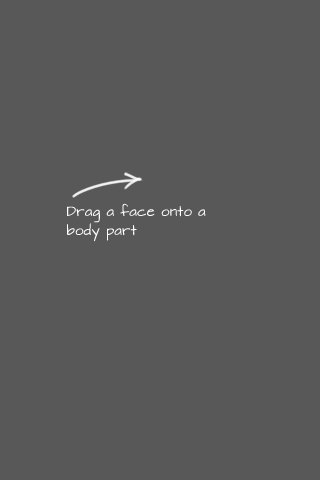
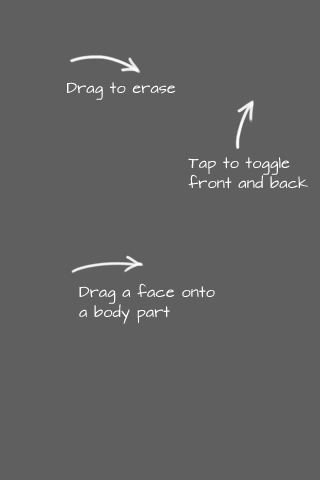
Made drawing changes and entry creation for painlevel, if found, same level and if it belongs to the same day or a different day. Also checking if drawing is
New CoachMarks, changed resizing for the aboutVC components

diff --git a/PainMe/PainMe/Classes/Model/PainLocation.m b/PainMe/PainMe/Classes/Model/PainLocation.m
@@ -19,11 +19,11 @@
 @dynamic painEntries;
 @dynamic orientation;
 
-+(void)enterPainEntryForLocation:(NSDictionary *)locdict levelPain:(int)painLvl notes:(NSString *)notes{
++(BOOL)enterPainEntryForLocation:(NSDictionary *)locdict levelPain:(int)painLvl notes:(NSString *)notes{
 
 
     PainLocation *locFound  = nil;
-    
+    BOOL toRet = NO;
     InvoDataManager *dtaMgr = [InvoDataManager sharedDataManager];
     
     NSManagedObjectContext *moc = [dtaMgr objContext];
@@ -41,7 +41,7 @@
     if (result && [result count]>0) {
 
         locFound = (PainLocation *)[result objectAtIndex:0];
-//        NSLog(@"PainLocation found is %@", locFound.name);
+        NSLog(@"PainLocation found is %@", locFound.name);
     }
     
     NSSet *entriesForLocation = locFound.painEntries;
@@ -50,18 +50,36 @@
     
     if(sortedEntries.count >0){
         int levelOfFoundEntry = [[[sortedEntries objectAtIndex:0] valueForKey:@"painLevel"] integerValue];
-        
+        NSDate *timeStamp = [[sortedEntries objectAtIndex:0] valueForKey:@"timestamp"] ;
+        NSDate *now = [[NSDate alloc] init];
         if(levelOfFoundEntry != painLvl){
-            NSDate *now = [[NSDate alloc] init];
-            
+            toRet = YES;
             [PainEntry painEntryWithTime:now painLevel:painLvl extraNotes:[notes copy] location:locFound];
+        }
+        else{
+            
+            NSLog(@"gotta handle this Else of founfEntry and painLevel");
+            NSCalendar *cal = [NSCalendar currentCalendar];
+            unsigned int unitFlags = NSDayCalendarUnit| NSMonthCalendarUnit ;
+            NSDateComponents *foundComps = [cal components:unitFlags fromDate:timeStamp];
+            NSDateComponents *currComps = [cal components:unitFlags fromDate:now];
+            
+            if ([foundComps month] != [currComps month] || [foundComps day] != [currComps day] ) {
+                toRet = YES;
+                [PainEntry painEntryWithTime:now painLevel:painLvl extraNotes:[notes copy] location:locFound];
+            }
+            
+//            NSLog(@"foundComps %@ currComps:%@",foundComps, currComps); 
+//            NSLog(@"time stamp is %@", timeStamp);
+//            NSLog(@"time now is %@",now);
         }
     }
     else{
         NSDate *now = [[NSDate alloc] init];
-        
+        toRet = YES;
         [PainEntry painEntryWithTime:now painLevel:painLvl extraNotes:[notes copy] location:locFound];
     }
+    return toRet;
 }
 
 

diff --git a/PainMe/PainMe/Classes/Controllers/InvoBodySelectionViewController.m b/PainMe/PainMe/Classes/Controllers/InvoBodySelectionViewController.m
@@ -473,27 +473,34 @@
             }
             else bezierShape = [value copy];
         }
-        if(painLvl ==0){
-        
-            if ([self.bodyView doesEntryExist:name withZoomLevel:level]) {
-                UIColor *fillcolor = [InvoPainColorHelper colorfromPain:painLvl];
-                
-                [self.bodyView renderPainForBodyPartPath:bezierShape WithColor:[UIColor clearColor] detailLevel:zoomLVL name:[[pathContainingPoint allKeys] objectAtIndex:0] orient:[self currentOrientation]];
-                fillcolor = nil;
+        [self drawAndCreatePainEntryForPath:bezierShape
+                                   location:[pathContainingPoint copy]
+                                       name:[[pathContainingPoint allKeys] objectAtIndex:0]
+                                  levelPain:painLvl
+                                       zoom:zoomLVL];
+    }
+}
 
-                [InvoDataManager painEntryForLocation:[pathContainingPoint copy] levelPain:0 notes:nil];
-            }
-            return;
-        }
-        else{
+-(void)drawAndCreatePainEntryForPath:(UIBezierPath *)path location:(id)value name:(NSString *)name levelPain:(int)painLvl zoom:(int)zoomLVL{
+
+    //checking it trying to erase an entry and
+    //if that entry actually exisits.
+    
+    if(painLvl ==0 && (![self.bodyView doesEntryExist:name withZoomLevel:zoomLVL])){
+    //if doesnot exist then no need to create
+    //so return
+        return;
+    }
+    
+    if([InvoDataManager painEntryForLocation:[value copy] levelPain:painLvl notes:nil]){
+        UIColor *fillcolor = [InvoPainColorHelper colorfromPain:painLvl];
+        [self.bodyView renderPainForBodyPartPath:path
+                                       WithColor:fillcolor
+                                     detailLevel:zoomLVL
+                                            name:[[value allKeys] objectAtIndex:0]
+                                          orient:[self currentOrientation]];
         
-            UIColor *fillcolor = [InvoPainColorHelper colorfromPain:painLvl];
-            
-            [self.bodyView renderPainForBodyPartPath:bezierShape WithColor:fillcolor detailLevel:zoomLVL name:[[pathContainingPoint allKeys] objectAtIndex:0] orient:[self currentOrientation]];
-            fillcolor = nil;
-            
-            [InvoDataManager painEntryForLocation:[pathContainingPoint copy] levelPain:painLvl notes:nil];
-        }
+        fillcolor = nil;
     }
 }
 

diff --git a/PainMe/PainMe/Classes/InvoDataManager.m b/PainMe/PainMe/Classes/InvoDataManager.m
@@ -426,9 +426,9 @@
 
 #pragma mark pain location enrty
 
-+(void)painEntryForLocation:(NSDictionary *)locDetails levelPain:(int)painLvl notes:(NSString *)nots{
++(BOOL)painEntryForLocation:(NSDictionary *)locDetails levelPain:(int)painLvl notes:(NSString *)nots{
 
-    [PainLocation enterPainEntryForLocation:[locDetails copy] levelPain:painLvl notes:[nots copy]];
+   return [PainLocation enterPainEntryForLocation:[locDetails copy] levelPain:painLvl notes:[nots copy]];
 }
 
 -(NSArray *)totalPainEntriesForPart:(NSString *)pName{

diff --git a/PainMe/PainMe/Classes/Model/PainLocation.h b/PainMe/PainMe/Classes/Model/PainLocation.h
@@ -36,7 +36,7 @@ typedef enum{
 - (void)removePainEntries:(NSSet *)values;
 
 
-+(void)enterPainEntryForLocation:(NSDictionary *)locdict levelPain:(int)painLvl notes:(NSString *)notes ;
++(BOOL)enterPainEntryForLocation:(NSDictionary *)locdict levelPain:(int)painLvl notes:(NSString *)notes ;
 
 
 +(void)locationEntryWithName:(NSString *)locName shape:(NSData *)shape zoomLevel:(int16_t)levZoom orientation:(int16_t)orient;

diff --git a/PainMe/PainMe/Classes/InvoDataManager.h b/PainMe/PainMe/Classes/InvoDataManager.h
@@ -27,7 +27,7 @@
 
 +(InvoDataManager *)sharedDataManager;
 
-+(void)painEntryForLocation:(NSDictionary *)locDetails levelPain:(int)painLvl notes:(NSString *)nots;
++(BOOL)painEntryForLocation:(NSDictionary *)locDetails levelPain:(int)painLvl notes:(NSString *)nots;
 
 -(void)listCoordinates;
 -(void)checkPainLocationDataBase;

diff --git a/PainMe/PainMe/Classes/Views/BodyView.m b/PainMe/PainMe/Classes/Views/BodyView.m
@@ -141,7 +141,7 @@
 
     //scale = (self.contentScaleFactor ==2)?scale/2:scale;
     
-    NSLog(@"Scale in draw is %f",scale);
+//    NSLog(@"Scale in draw is %f",scale);
     
     int firstCol = floorf(CGRectGetMinX(rect) / tileSize.width);
     int lastCol = floorf((CGRectGetMaxX(rect)-1) / tileSize.width);

diff --git a/PainMe/PainMe/Classes/Model/PainEntry.m b/PainMe/PainMe/Classes/Model/PainEntry.m
@@ -41,6 +41,7 @@
 //    NSDate *newDate = [time dateByAddingTimeInterval:newInterval];
 //    newEntry.timestamp = [newDate timeIntervalSinceReferenceDate];
     
+
     newEntry.location = painLoc ;
     
     [dataManager saveContext];
